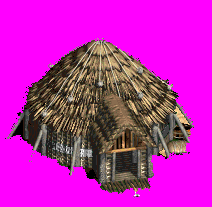
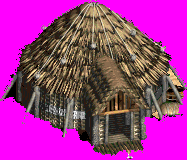
Revue du pathfinding. Retouche des images des maisons pour le changement d'ère.

diff --git a/NNNA/NNNA/Game1.cs b/NNNA/NNNA/Game1.cs
@@ -501,9 +501,9 @@ namespace NNNA
 
 					//Joueur
 					joueur = new Joueur(colors[0], names[0], Content);
-					joueur.Units.Add(new Guerrier((int)matrice2xy(new Vector2(spawns[0].X - 1, spawns[0].Y - 1)).X + 100, (int)matrice2xy(new Vector2(spawns[0].X - 1, spawns[0].Y - 1)).Y + 200, Content, joueur, false));
-					joueur.Units.Add(new Guerrier((int)matrice2xy(new Vector2(spawns[0].X - 1, spawns[0].Y - 1)).X + 0, (int)matrice2xy(new Vector2(spawns[0].X - 1, spawns[0].Y - 1)).Y + 200, Content, joueur, false));
-					joueur.Units.Add(new Peon((int)matrice2xy(new Vector2(spawns[0].X - 1, spawns[0].Y - 1)).X + 50, (int)matrice2xy(new Vector2(spawns[0].X - 1, spawns[0].Y - 1)).Y + 200, Content, joueur, false));
+					joueur.Units.Add(new Guerrier((int)matrice2xy(new Vector2(spawns[0].X - 1, spawns[0].Y - 1)).X + 100, (int)matrice2xy(new Vector2(spawns[0].X - 1, spawns[0].Y - 1)).Y + 155, Content, joueur, false));
+					joueur.Units.Add(new Guerrier((int)matrice2xy(new Vector2(spawns[0].X - 1, spawns[0].Y - 1)).X + 0, (int)matrice2xy(new Vector2(spawns[0].X - 1, spawns[0].Y - 1)).Y + 155, Content, joueur, false));
+					joueur.Units.Add(new Peon((int)matrice2xy(new Vector2(spawns[0].X - 1, spawns[0].Y - 1)).X + 50, (int)matrice2xy(new Vector2(spawns[0].X - 1, spawns[0].Y - 1)).Y + 155, Content, joueur, false));
 					joueur.Buildings.Add(new Grande_Hutte((int)matrice2xy(new Vector2(spawns[0].X - 1, spawns[0].Y - 1)).X, (int)matrice2xy(new Vector2(spawns[0].X - 1, spawns[0].Y - 1)).Y, Content, joueur));
 					camera.Position = matrice2xy(new Vector2(spawns[0].X + 7, spawns[0].Y + 5)) - m_screen / 2;
 
@@ -512,9 +512,9 @@ namespace NNNA
 					for (int i = 0; i < m_foes; i++)
 					{
 						m_enemies[i] = new Joueur(colors[i + 1], names[i + 1], Content);
-						m_enemies[i].Units.Add(new Guerrier((int)matrice2xy(new Vector2(spawns[i + 1].X - 1, spawns[i + 1].Y - 1)).X + 100, (int)matrice2xy(new Vector2(spawns[i + 1].X - 1, spawns[i + 1].Y - 1)).Y + 200, Content, joueur, false));
-						m_enemies[i].Units.Add(new Guerrier((int)matrice2xy(new Vector2(spawns[i + 1].X - 1, spawns[i + 1].Y - 1)).X + 0, (int)matrice2xy(new Vector2(spawns[i + 1].X - 1, spawns[i + 1].Y - 1)).Y + 200, Content, joueur, false));
-						m_enemies[i].Units.Add(new Peon((int)matrice2xy(new Vector2(spawns[i + 1].X - 1, spawns[i + 1].Y - 1)).X + 50, (int)matrice2xy(new Vector2(spawns[i + 1].X - 1, spawns[i + 1].Y - 1)).Y + 200, Content, joueur, false));
+						m_enemies[i].Units.Add(new Guerrier((int)matrice2xy(new Vector2(spawns[i + 1].X - 1, spawns[i + 1].Y - 1)).X + 100, (int)matrice2xy(new Vector2(spawns[i + 1].X - 1, spawns[i + 1].Y - 1)).Y + 155, Content, joueur, false));
+						m_enemies[i].Units.Add(new Guerrier((int)matrice2xy(new Vector2(spawns[i + 1].X - 1, spawns[i + 1].Y - 1)).X + 0, (int)matrice2xy(new Vector2(spawns[i + 1].X - 1, spawns[i + 1].Y - 1)).Y + 155, Content, joueur, false));
+						m_enemies[i].Units.Add(new Peon((int)matrice2xy(new Vector2(spawns[i + 1].X - 1, spawns[i + 1].Y - 1)).X + 50, (int)matrice2xy(new Vector2(spawns[i + 1].X - 1, spawns[i + 1].Y - 1)).Y + 155, Content, joueur, false));
 						m_enemies[i].Buildings.Add(new Grande_Hutte((int)matrice2xy(new Vector2(spawns[i + 1].X - 1, spawns[i + 1].Y - 1)).X, (int)matrice2xy(new Vector2(spawns[i + 1].X - 1, spawns[i + 1].Y - 1)).Y, Content, joueur));
 					}
 
@@ -705,7 +705,7 @@ namespace NNNA
 						break;
 
 					case "create_peon" :
-						u = new Peon((int)selectedBuilding.Position.X + 50 * (selectedBuilding.Iterator % 5), (int)selectedBuilding.Position.Y + 200, Content, joueur, false);
+						u = new Peon((int)selectedBuilding.Position.X + 50 * (selectedBuilding.Iterator % 5), (int)selectedBuilding.Position.Y + 155, Content, joueur, false);
 						if (joueur.Population + 1 > joueur.Population_Max && joueur.Pay(u.Prix))
 						{
 							selectedBuilding.Iterator++;
@@ -927,7 +927,7 @@ namespace NNNA
                                 break;
 
                             case "create_peon":
-                                Peon u = new Peon((int)selectedBuilding.Position.X + 50 * (selectedBuilding.Iterator % 5), (int)selectedBuilding.Position.Y + 200, Content, joueur);
+                                Peon u = new Peon((int)selectedBuilding.Position.X + 50 * (selectedBuilding.Iterator % 5), (int)selectedBuilding.Position.Y + 155, Content, joueur);
                                 if (joueur.Pay(u.Prix))
                                 {
                                     selectedBuilding.Iterator++;

diff --git a/NNNA/NNNA/Physics/Movible_sprite.cs b/NNNA/NNNA/Physics/Movible_sprite.cs
@@ -144,7 +144,7 @@ namespace NNNA
                 }
             }
         }
-        public void ClickMouvement(Map map, Sprite curseur, GameTime gameTime, Camera2D camera, HUD hud, List<Movible_Sprite> sprites, List<Building> buildings, Sprite[,] matrice)
+        public void ClickMouvement(Sprite[,] map, Sprite curseur, GameTime gameTime, Camera2D camera, HUD hud, List<Movible_Sprite> sprites, List<Building> buildings, Sprite[,] matrice)
         {
             if (m_click == true || m_selected == true)
             {
@@ -153,9 +153,10 @@ namespace NNNA
                     m_click = true;
                     m_click_interne = false;
                     m_positionIni = m_position;
+                    m_clickPosition = curseur.Position + camera.Position - new Vector2(Texture.Width / 8, (Texture.Height * 4) / 5);
                     Vector2 start = Game1.xy2matrice(m_positionIni);
                     Vector2 destination = Game1.xy2matrice(curseur.Position + camera.Position - new Vector2(Texture.Width / 8, (Texture.Height * 4) / 5));
-                    pathList = PathFinding.FindPath(map.Carte, map.Carte[(int)start.Y, (int)start.X], map.Carte[(int)destination.Y, (int)destination.X]);
+                    pathList = PathFinding.FindPath(map, map[(int)start.Y, (int)start.X], map[(int)destination.Y, (int)destination.X]);
                     if (pathList != null)
                     {
                         pathIterator = pathList.Count - 1;
@@ -164,13 +165,38 @@ namespace NNNA
                 }
                 if (m_click)
                 {
-                    if (pathIterator >= 0)
+                    if (pathIterator > 0)
                     {
                         if (!m_click_interne)
                         {
                             m_angle = Math.Atan2(pathList[pathIterator].Position_Center.Y - m_position.Y, pathList[pathIterator].Position_Center.X - m_position.X);
                             m_direction = new Vector2((float)Math.Cos(m_angle), (float)Math.Sin(m_angle));
                             m_cparcourir = new Vector2(pathList[pathIterator].Position_Center.X - m_position.X, pathList[pathIterator].Position_Center.Y - m_position.Y);
+                            m_cparcouru = Vector2.Zero;
+                            m_click_interne = true;
+                        }
+                        if (Math.Abs(m_cparcouru.X) >= Math.Abs(m_cparcourir.X) && Math.Abs(m_cparcouru.Y) >= Math.Abs(m_cparcourir.Y))
+                        {
+                            pathIterator--;
+                            m_positionIni = m_position;
+                            m_click_interne = false;
+                        }
+                        else
+                        {
+                            m_cparcouru = m_position - m_positionIni;
+                            Vector2 translation = m_direction * gameTime.ElapsedGameTime.Milliseconds * m_speed;
+                            Update(translation);
+                            if (Collides(sprites, buildings, matrice))
+                            { m_position -= translation; }
+                        }
+                    }
+                    else if (pathIterator == 0)
+                    {
+                        if (!m_click_interne)
+                        {
+                            m_angle = Math.Atan2(m_clickPosition.Y - m_position.Y, m_clickPosition.X - m_position.X);
+                            m_direction = new Vector2((float)Math.Cos(m_angle), (float)Math.Sin(m_angle));
+                            m_cparcourir = new Vector2(m_clickPosition.X - m_position.X, m_clickPosition.Y - m_position.Y);
                             m_cparcouru = Vector2.Zero;
                             m_click_interne = true;
                         }

diff --git a/NNNA/NNNA/Lib/PathFinding.cs b/NNNA/NNNA/Lib/PathFinding.cs
@@ -9,12 +9,15 @@ namespace NNNA
     {
         public static List<Sprite> FindPath(Sprite[,] map, Sprite start, Sprite destination)
         {
+            if (!destination.Crossable)
+                return null;
+
             List<Sprite> path = new List<Sprite>();
             NodeList<Node> openList = new NodeList<Node>();
             NodeList<Node> closedList = new NodeList<Node>();
             List<Node> possibleNodes;
             int possibleNodesCount;
-
+            
             Node startNode = new Node(start, null, destination);
 
             openList.Add(startNode);

diff --git a/NNNA/NNNA/Graphics/Map.cs b/NNNA/NNNA/Graphics/Map.cs
@@ -28,6 +28,7 @@ namespace NNNA
         public Map()
         {
         }
+
         public void LoadContent(Sprite[,] map, ContentManager content, Minimap minimap, GraphicsDevice device)
         {
             Color[] texture_Color = new Color[(map.GetLength(1) + 4) * (map.GetLength(0) + 4)];
